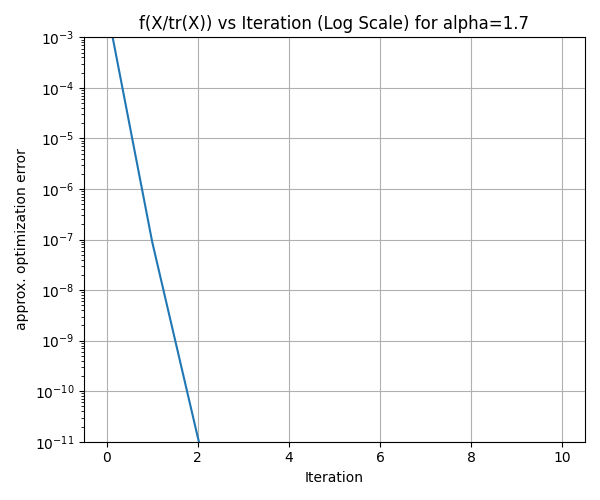
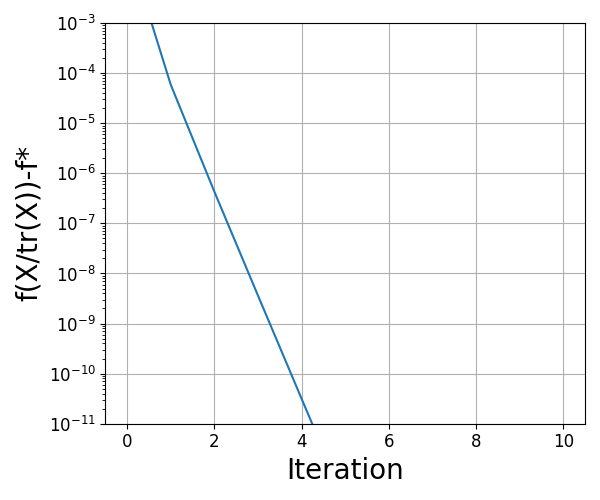
Adjust dimension and cardinality

diff --git a/expr_QST.py b/expr_QST.py
@@ -7,20 +7,15 @@ def runif_in_simplex(d):
     k = np.random.exponential(scale=1.0, size=d)
     return k / sum(k)
 
-# def generate_psd(D):
-#     #A = np.random.rand(2*D, D)
-#     return qutip.rand_dm(D)
-#     #return np.matmul(np.transpose(A), A)
-
 def generate_psd(D):
     qobj_density_matrix = qutip.rand_dm(D)
     return qobj_density_matrix.full()
 
-def f(X, As, P, a):
+def f(sigma, rhos, P, a):
     ans = 0
     for i in range(len(P)):
-        ans += P[i] * np.log(np.trace(linalg.fractional_matrix_power(As[i], a) @ linalg.fractional_matrix_power(X, 1-a))) / (a - 1)
-    return ans
+        ans += P[i] * np.log(np.trace(rhos[i] @ linalg.fractional_matrix_power(sigma, 1-a)))
+    return ans / (a - 1)
 
 def h(x, y, a):
     if x == y:
@@ -45,47 +40,47 @@ def h(x, y, a):
 #             rX += P[j] * ei * (ui @ ui.H)
 #     return ans
 
-def step(X, As, P, a):
-    D = X.shape[0]
+def step(sigma, rhos, P, a):
+    D = sigma.shape[0]
     ans = np.zeros((D, D))
     for i in range(len(P)):
-        ans = ans + P[i] * linalg.fractional_matrix_power(As[i], a) / np.trace(linalg.fractional_matrix_power(As[i], a) @ linalg.fractional_matrix_power(X, 1-a))
+        ans = ans + P[i] * rhos[i] / np.trace(rhos[i] @ linalg.fractional_matrix_power(sigma, 1-a))
     ans = linalg.fractional_matrix_power(ans, 1/a)
     return ans
 
 # Experiment parameters
-D = 2**6
-m = 2**8
+D = 2**7
+m = 2**5
 alphas = [0.8, 1.1, 1.4, 1.7, 2]
 
 
-As = []
+global_rhos = []
 for i in range(m):
-    A = generate_psd(D)
-    A /= np.trace(A)
-    As.append(A)
-
+    rho = generate_psd(D)
+    rho /= np.trace(rho)
+    global_rhos.append(rho)
 
 alphas = [0.8,1.1,1.4,1.7,2]
+P = runif_in_simplex(m)
 # Loop over different values of alpha
 for alpha in alphas:
-    P = runif_in_simplex(m)
-    X = np.identity(D) / D
+    rhos = []
+    for i in range(m):
+        rhos.append(linalg.fractional_matrix_power(global_rhos[i],alpha)) # Taking matrix power of supported states beforehand
+    
+    sigma = np.identity(D) / D
     # Arrays to store iteration results
     iterations = [0]
-    f_values = [f(X / np.trace(X), As, P, alpha)]
+    f_values = [f(sigma / np.trace(sigma), rhos, P, alpha)]
 
     # Perform the iterative process
     T = 10
     for i in range(T):
-        X = step(X, As, P, alpha)
+        sigma = step(sigma, rhos, P, alpha)
         iterations.append(i+1)
-        f_val = f(X / np.trace(X), As, P, alpha)
-        #grad = gradf(X, As, P, alpha)
-        #norm_log = np.log(linalg.norm(-grad, ord=2))
+        f_val = f(sigma / np.trace(sigma), rhos, P, alpha)
         f_values.append(f_val)
         print(alpha,f_val)
-        #norm_logs.append(norm_log)
 
     min_f_val = min(f_values)
     for i in range(len(f_values)):
@@ -100,11 +95,11 @@ for alpha in alphas:
     # f(X) vs iteration with log-scale y-axis
     # plt.subplot(1, 2, 1)
     plt.plot(iterations, f_values, label=f'f(X), alpha={alpha}')
-    plt.xlabel('Iteration')
-    plt.ylabel('approx. optimization error')
+    plt.xlabel('Iteration',fontsize=20)
+    plt.ylabel('f(X/tr(X))-f*',fontsize=20)
     plt.yscale('log')  # Set log scale for y-axis
     plt.ylim(1e-11,1e-3)
-    plt.title(f'f(X/tr(X)) vs Iteration (Log Scale) for alpha={alpha}')
+    plt.tick_params(axis='both',which='major',labelsize=12)
     plt.grid(True)
 
     # # Log of norm vs iteration with log-scale y-axis
